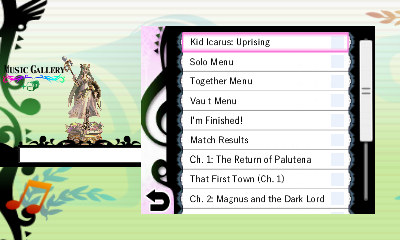
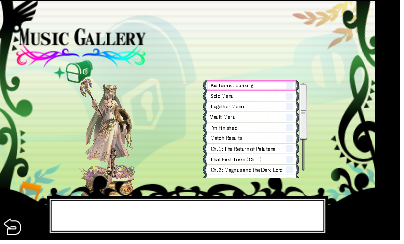
Take the Music Gallery layout made in the menu editor
The List sits smaller on the right, the title and Palutena large on the
left, the track box across the bottom and Back at the bottom left. Back
is MenColViewerBt9999 after all, not part of the page.

diff --git a/docs/agents/screen-transform.md b/docs/agents/screen-transform.md
@@ -175,7 +175,7 @@ A left press on the Idol layer (14), off every Control, Orbits the Idol View ins
 
 Power Portrait (the Vault's, Screen 27) is one Board. Its bottom Placements are Background (0, `MenCmnBg0000`), Message (1, the line of words), Completion badge (2, banner and ring), Completion number (3) and Back (4); the top's are Details card (5), Frame (6), Checkerboard (7) and Portrait pieces (8). The Message layer owns `pPlane1`, a node that draws nothing, so the bottom text pass replays only there. Node layers are cut at their boxes, so each default box covers its artwork. The Screen keeps no Outline: a click is a touch at the Placement-mapped point. Acceptance: from `trace/powerportrait.state`, move Frame, Checkerboard and Portrait pieces apart and Message and Completion number away from the badge; each moves alone, hiding Background keeps the words, and a click on Back at a moved place returns to the Vault.
 
-Music Gallery (the Vault's, Screen 29, MENUID 38) is one Board. Its bottom Placements are Background (0, the page with the clef strip and the Back arrow), Rows (1, `MenColSdtstMusicBt0103`, which carry the track names), Cursor (2, `Bt0104`, with the play mark), List fades (3, `Bt0105`), Scroll bar (4) and `MenColViewerBt9999` (5, draws nothing here); the top's are Details card (6, the title's words), Backdrop (7), Figure (8, Palutena) and Track box (9, with the emblem under the title). The default layout (`kiu/menu-layout.toml`, authored at 16:9 and checked at 5:3) fills the screen: the backdrop across it, the title, figure and track box in a column on the left at half size, and the List panel on the right at 0.78 scale. List fades (3) is hidden: drawn apart from the Rows, its masks show as black around the List. The Cursor is stacked last, or the Rows cover it. At 21:9 a thin strip on the right stays black and the List narrows, as fixed-pixel layouts do on every Screen. The Screen keeps no Outline: a click is a touch at the Placement-mapped point, and a Row's touch plays it. The wheel steps the Cursor a Row a notch through the keys' own step, so the List scrolls to keep it shown. Acceptance: from `trace/musicgallery.state` at 16:9, `mhover 300 120` then `mwheel 1 12` shows tracks from "I'm Finished!" with the thumb lower, `mwheel -1 12` returns to "Kid Icarus: Uprising"; with the default layout, a click at (300, 70) plays the third Row, "Together Menu", and a click on the Back arrow at (160, 197) returns to the Vault.
+Music Gallery (the Vault's, Screen 29, MENUID 38) is one Board. Its bottom Placements are Background (0, the page with the clef strip), Rows (1, `MenColSdtstMusicBt0103`, which carry the track names), Cursor (2, `Bt0104`, with the play mark), List fades (3, `Bt0105`), Scroll bar (4) and Back (5, `MenColViewerBt9999`); the top's are Details card (6, the title's words), Backdrop (7), Figure (8, Palutena) and Track box (9, with the emblem under the title). The default layout (`kiu/menu-layout.toml`, authored in the editor at 16:9) fills the screen: the backdrop and the track box across it, the title and Palutena large on the left, the List smaller on the right and Back at the bottom left; Background and List fades (3) are hidden (the fades' masks show as black around the List when drawn apart). The Cursor is stacked last, or the Rows cover it. The Screen keeps no Outline: a click is a touch at the Placement-mapped point, and a Row's touch plays it. The wheel steps the Cursor a Row a notch through the keys' own step, so the List scrolls to keep it shown. Acceptance: from `trace/musicgallery.state` at 16:9, `mhover 300 120` then `mwheel 1 12` shows tracks from "I'm Finished!" with the thumb lower, `mwheel -1 12` returns to "Kid Icarus: Uprising"; with the default layout, a click on the Back arrow at (12, 224) returns to the Vault.
 
 Group rows take `top_layers` too, appended after the Top screen (or Details card) so saved indices keep. The leftover Top screen layer keeps any node no layer owns. On heart Screens (Solo Hub) the heart counter keeps its own part and number and draws over the node layers. Top layers per Screen, back to front:
 

diff --git a/kiu/analysis/FINDINGS.md b/kiu/analysis/FINDINGS.md
@@ -1190,11 +1190,11 @@ its head sentinel; +0x10 is node color, not a leaf marker.
   and its pick (+0xE4, an index among the shown Rows) to 8, 12 up take both
   back to 0. 0x0031AA88 with a third word 1 (Idols') clamps the pick at 7
   without scrolling and drives it to -1 going up. Models: bottom
-  `MenColSdtstMusicBt0100` the page (clef strip and Back arrow, x -57..454,
+  `MenColSdtstMusicBt0100` the page (clef strip, x -57..454,
   so it is a node layer cut at its box), `Bt0103` one per Row (x 47..293,
   carries the Row words), `Bt0104` Cursor and play mark, `Bt0105` the List's
   top and bottom fades, `MenCmnScbar` x 294..320, `MenColViewerBt9999`
-  (no nodes); top `MenCollectionTopUp0000` (the Vault backdrop),
+  Back (no named nodes); top `MenCollectionTopUp0000` (the Vault backdrop),
   `MenColSdtstMusicUp0001` and `Up0002`.
 - `kiutrace` resolves save data against `KIUTRACE_DATA_DIR` (its `user/`),
   else `./user`: run from `kiu/` with `KIUTRACE_DATA_DIR=.`, or leaving a

diff --git a/docs/screen-status.md b/docs/screen-status.md
@@ -61,7 +61,7 @@ as "look first". Nothing has been checked with a real mouse on Windows yet.
 | Idols | ✅ | ◐ | ✅ | ✅ | Idol View orbits on a stick; the viewer has no Outline of its own. |
 | Power Portrait | ◐ | ☐ | ◐ | ☐ | Top split recorded; no Outline, a click is a touch. |
 | Chapter Results | ✅ | ✅ | ✅ | ✅ | Bottom node layers drawn whole. |
-| Music Gallery | ◐ | ✅ | ✅ | ✅ | Screen 29. Back is part of the Background layer, so it can't move alone. Layout authored at 16:9; at 21:9 a thin black strip remains on the right. |
+| Music Gallery | ◐ | ✅ | ✅ | ✅ | Screen 29. Layout authored at 16:9. |
 | Fiend's Cauldron | ✅ | ✅ | ✅ | ✅ | Own F2 editor; dial drag checked. |
 
 ## Not registered yet
